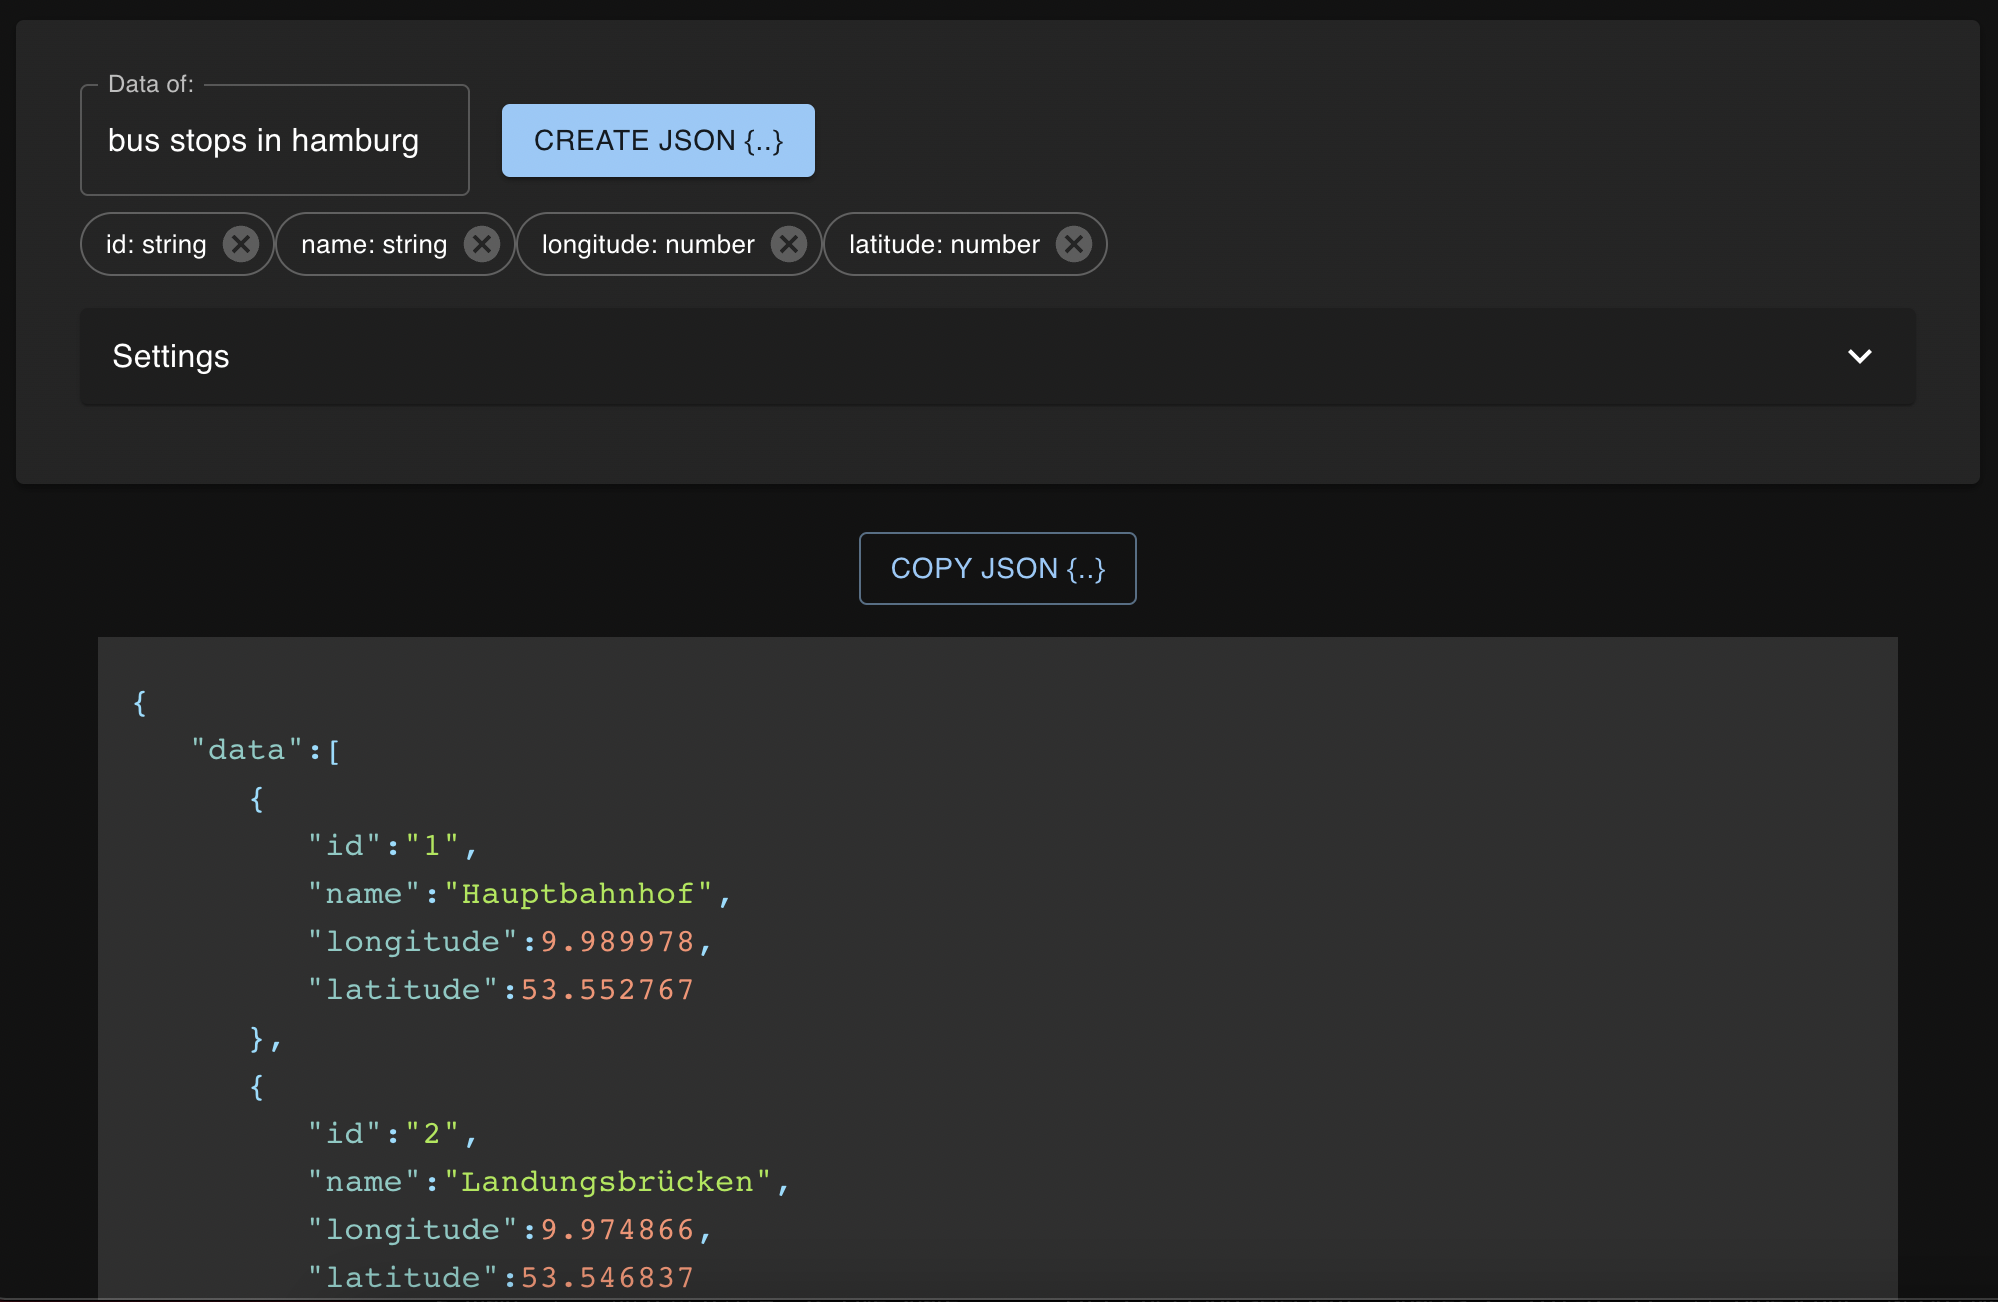
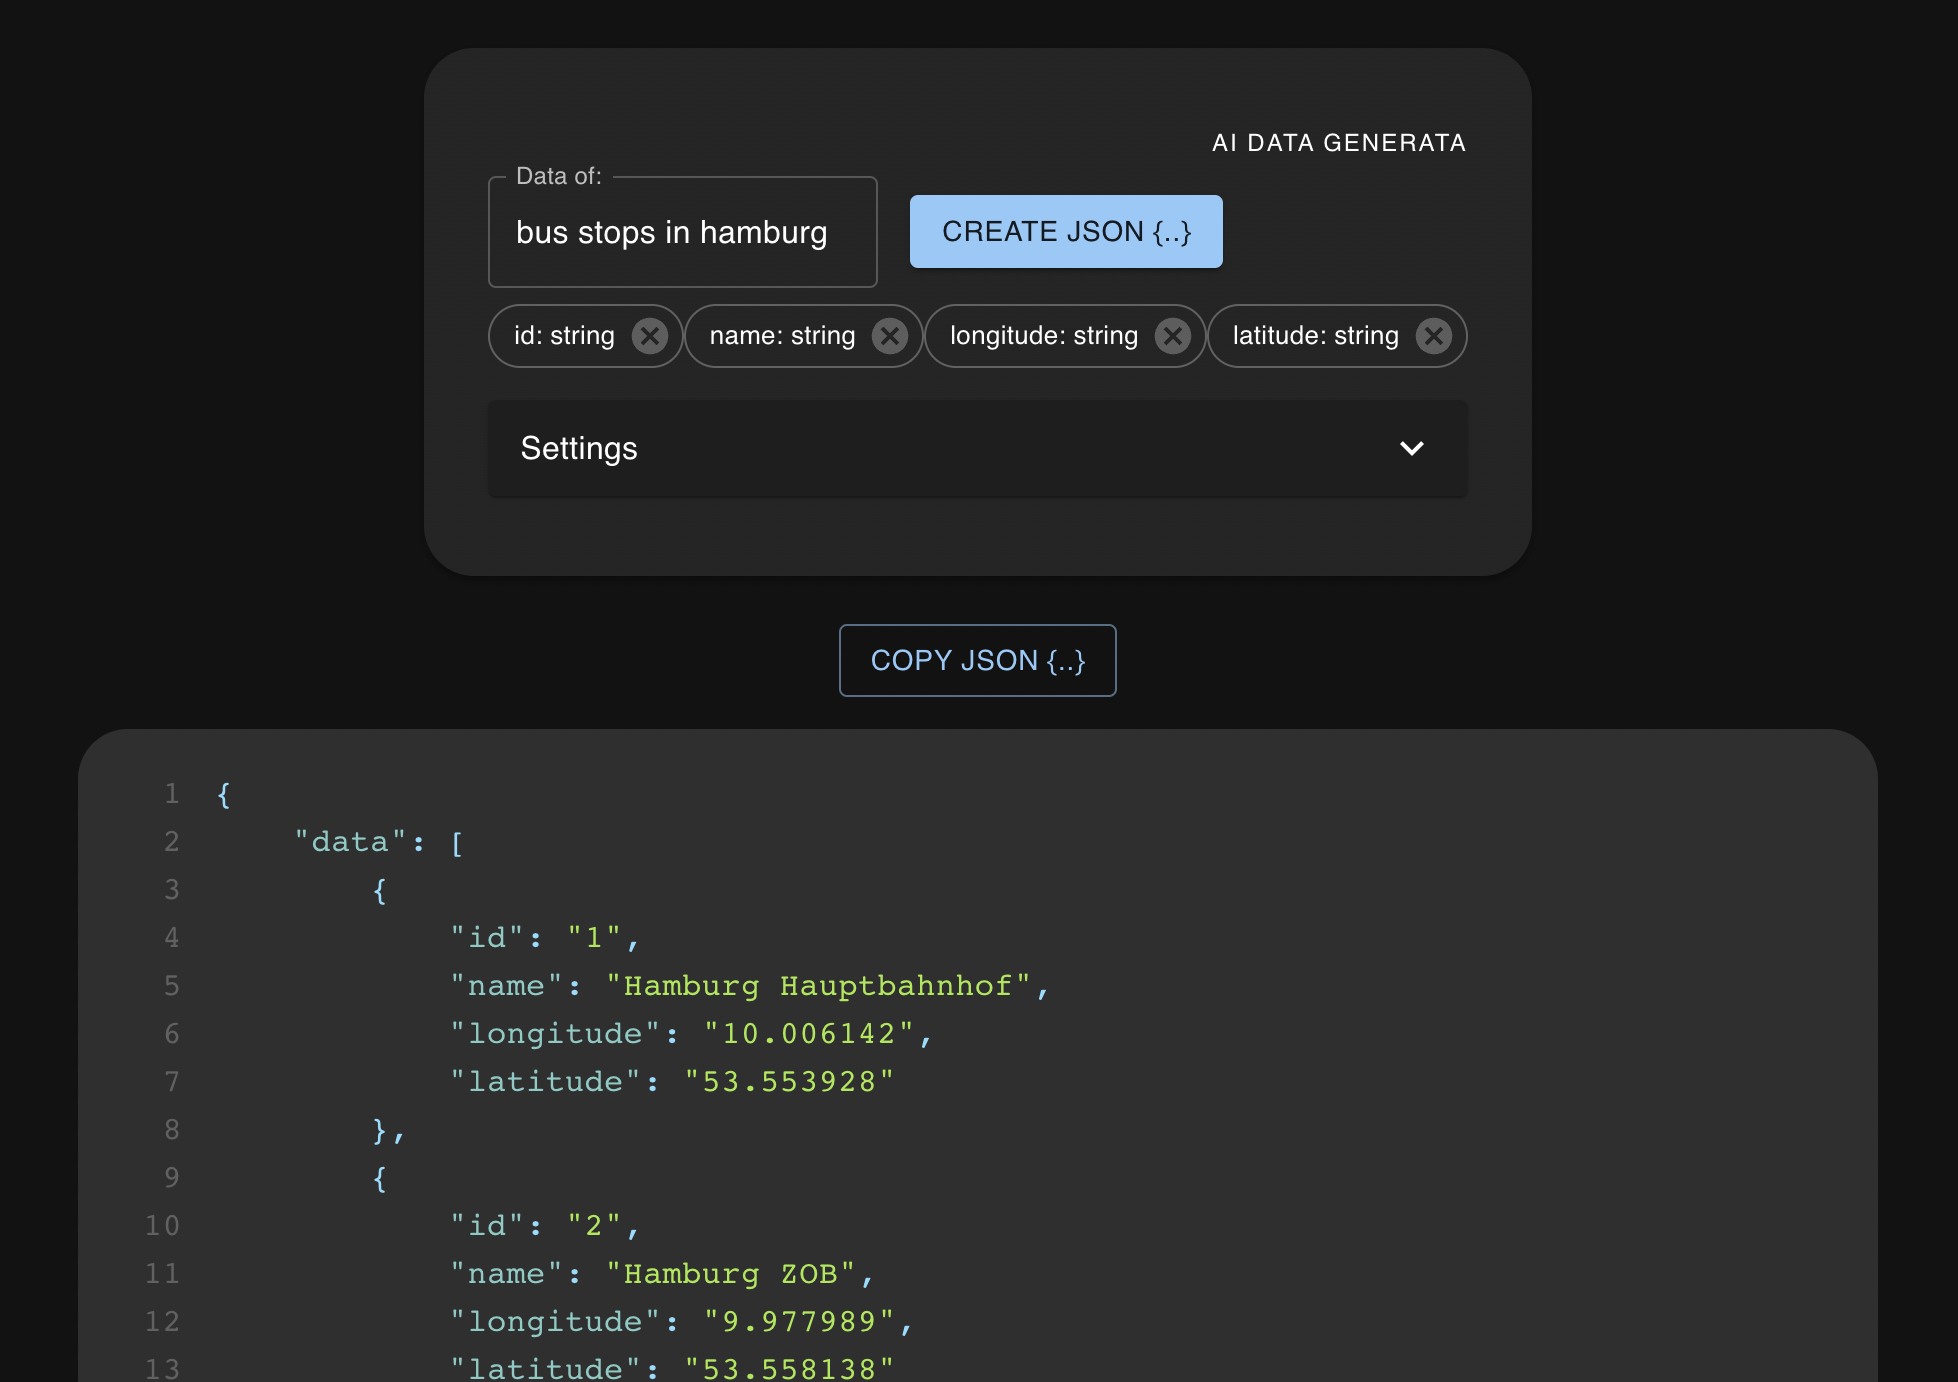
updated stuff

diff --git a/src/pages/index.js b/src/pages/index.js
@@ -58,7 +58,14 @@ export default function Home() {
   return (
     <>
       <Grid container spacing={1} mb={4}>
-        <Grid item xs={12}>
+        <Grid
+          item
+          xs={12}
+          sx={{
+            display: "flex",
+            justifyContent: "center",
+          }}
+        >
           <DataForm
             fetcher={fetcher}
             interfaceChips={
@@ -113,7 +120,12 @@ export default function Home() {
             </Stack>
           ) : (
             <Stack sx={{ minWidth: { xs: "400px", sm: "600px", md: "900px" } }}>
-              <SyntaxHighlighter language="javascript" style={style}>
+              <SyntaxHighlighter
+                showLineNumbers
+                language="javascript"
+                style={style}
+                customStyle={{ borderRadius: "25px" }}
+              >
                 {answer ? answer?.answer.content : "{}"}
               </SyntaxHighlighter>
             </Stack>

diff --git a/src/components/DataForm/index.js b/src/components/DataForm/index.js
@@ -1,5 +1,6 @@
 import Stack from "@mui/material/Stack";
 import Button from "@mui/material/Button";
+import Typography from "@mui/material/Typography";
 import Paper from "@mui/material/Paper";
 import TextField from "@mui/material/TextField";
 import FormControl from "@mui/material/FormControl";
@@ -8,7 +9,13 @@ import AccordionTemplate from "@/components/Accordion";
 export default function DataForm({ fetcher, interfaceChips, config }) {
   return (
     <Stack sx={{ p: 2 }}>
-      <Paper elevation={3} sx={{ p: 4, mt: 4 }}>
+      <Paper
+        elevation={3}
+        sx={{ p: 4, mt: 4, maxWidth: { sm: "600px" }, borderRadius: "25px" }}
+      >
+        <Typography variant="overline" component="h1" textAlign="right">
+          AI Data Generata
+        </Typography>
         <Stack
           component="form"
           direction="row"
